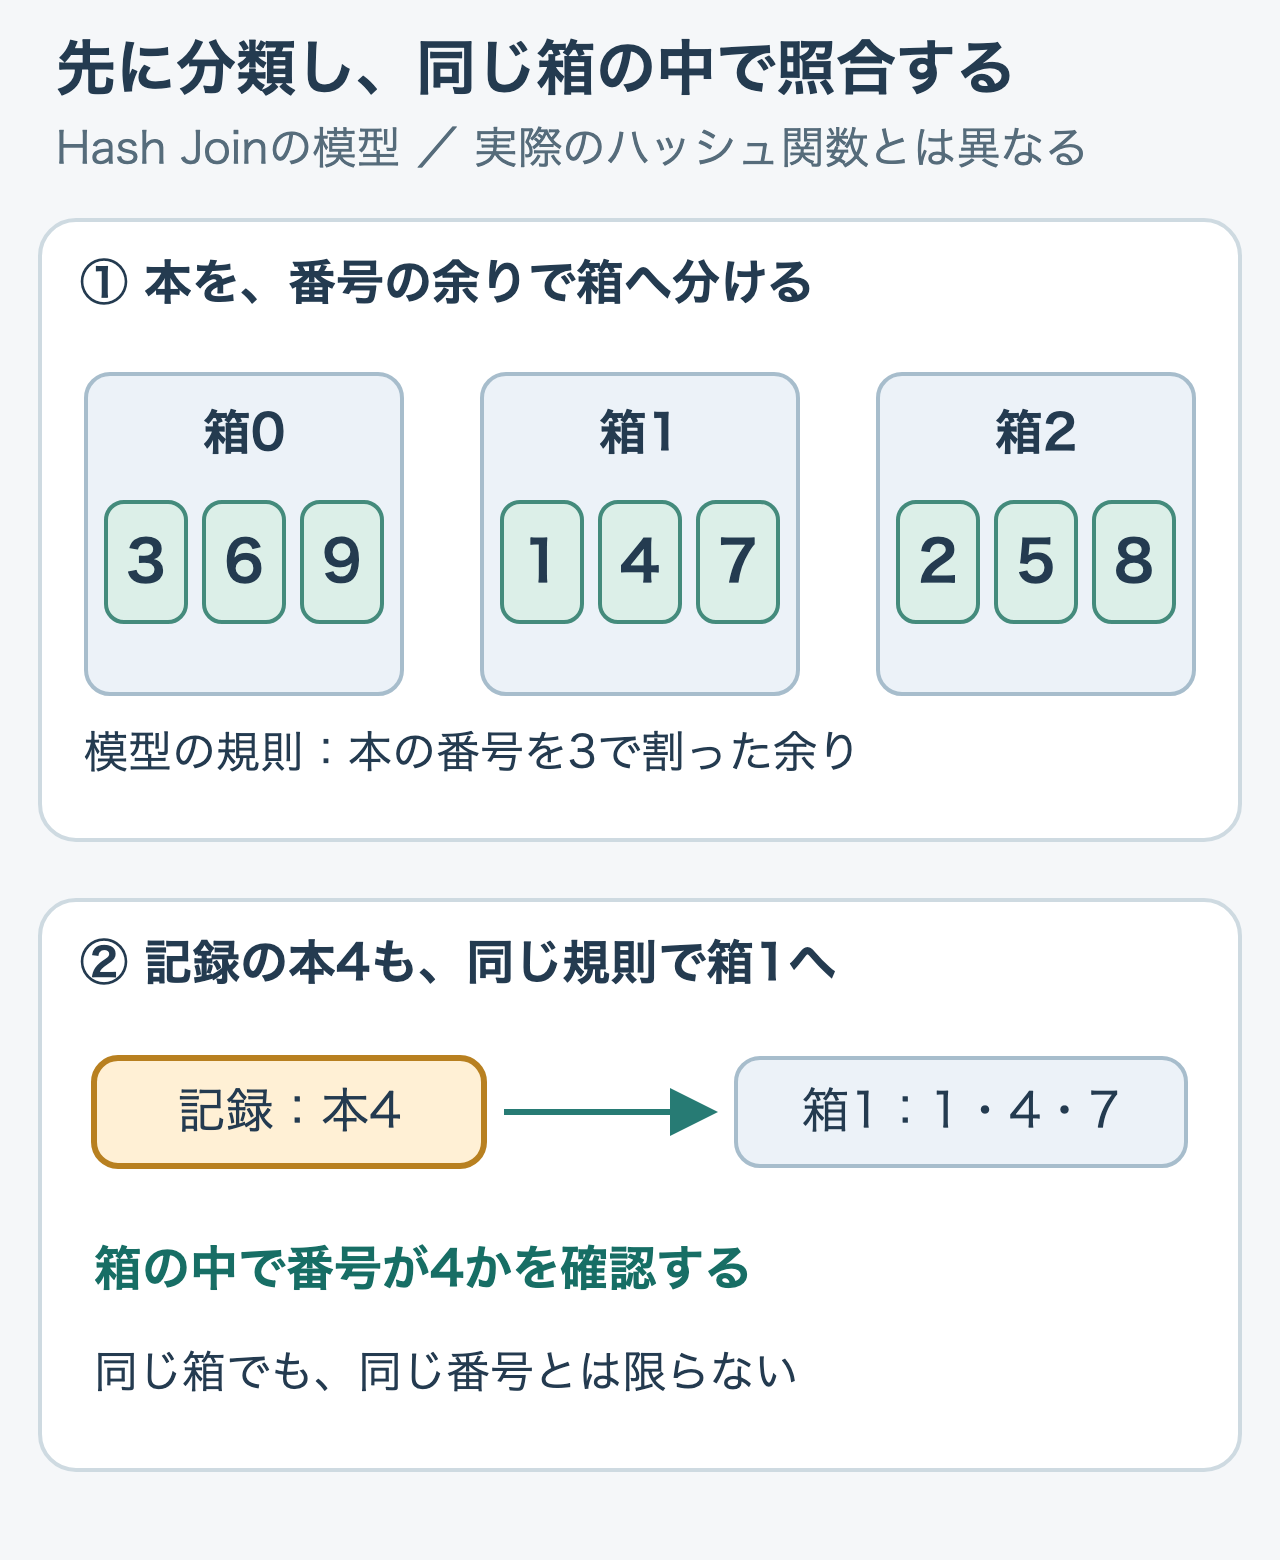
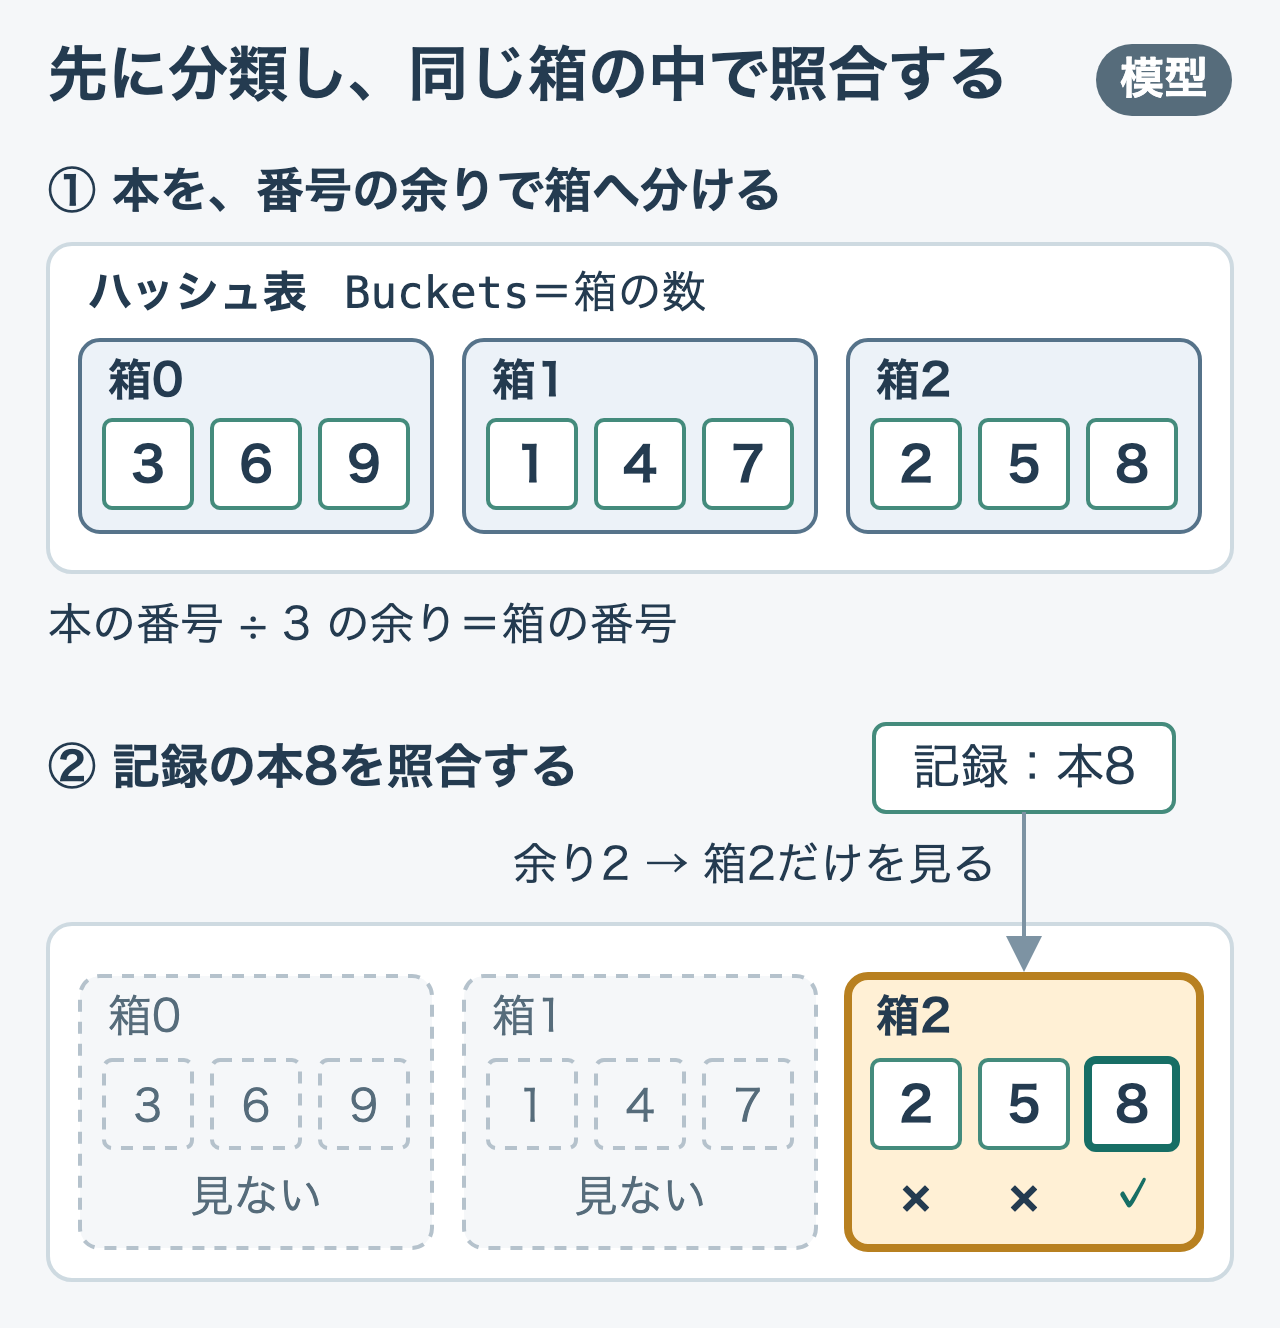
docs(query-journey): 第9章のハッシュ結合の図を、本文と同じ本8の例にする
図は本4→箱1、本文は本8→箱2で例が違っていた。本文の例にそろえ、記録は箱に入れず「見る」だけにした。箱2の中で2・5・8と比べるところを焦点にした。

Changed region(s): [[0.0312, 0.0, 0.9688, 0.494], [0.0312, 0.5248, 0.9688, 0.9571], [0.8438, 0.0309, 0.9688, 0.0926]]

diff --git a/books/postgresql-query-journey/09-join.md b/books/postgresql-query-journey/09-join.md
@@ -127,8 +127,8 @@ Execution Time: 664.568 ms
 
 まず、本の番号から入れる箱を計算で決めておきます。模型では、番号を3で割った余りを箱の番号にします。この、照合に使う値（キー。ここでは本の番号）から置き場所を決める計算を**ハッシュ**と呼びます。
 
-![先に分類し、同じ箱の中で照合する](/images/postgresql-query-journey/09-hash-join.png)
-*Hash Joinの模型。実際のハッシュ関数とは異なります。*
+![本1〜9を番号の余りで三つの箱に分け、記録の本8は箱2だけを見て、2と5は一致せず8で一致する](/images/postgresql-query-journey/09-hash-join.png)
+*記録の本8は箱2だけを見て、中の2・5・8と番号を比べます（模型）。*
 
 記録の番号が8なら箱2を見ます。ただし箱2には2や5もあります。同じ箱に入ることと番号が等しいことは別なので、最後はキーを比較します。異なるキーが同じ場所に対応することを**衝突**と呼びます。
 
